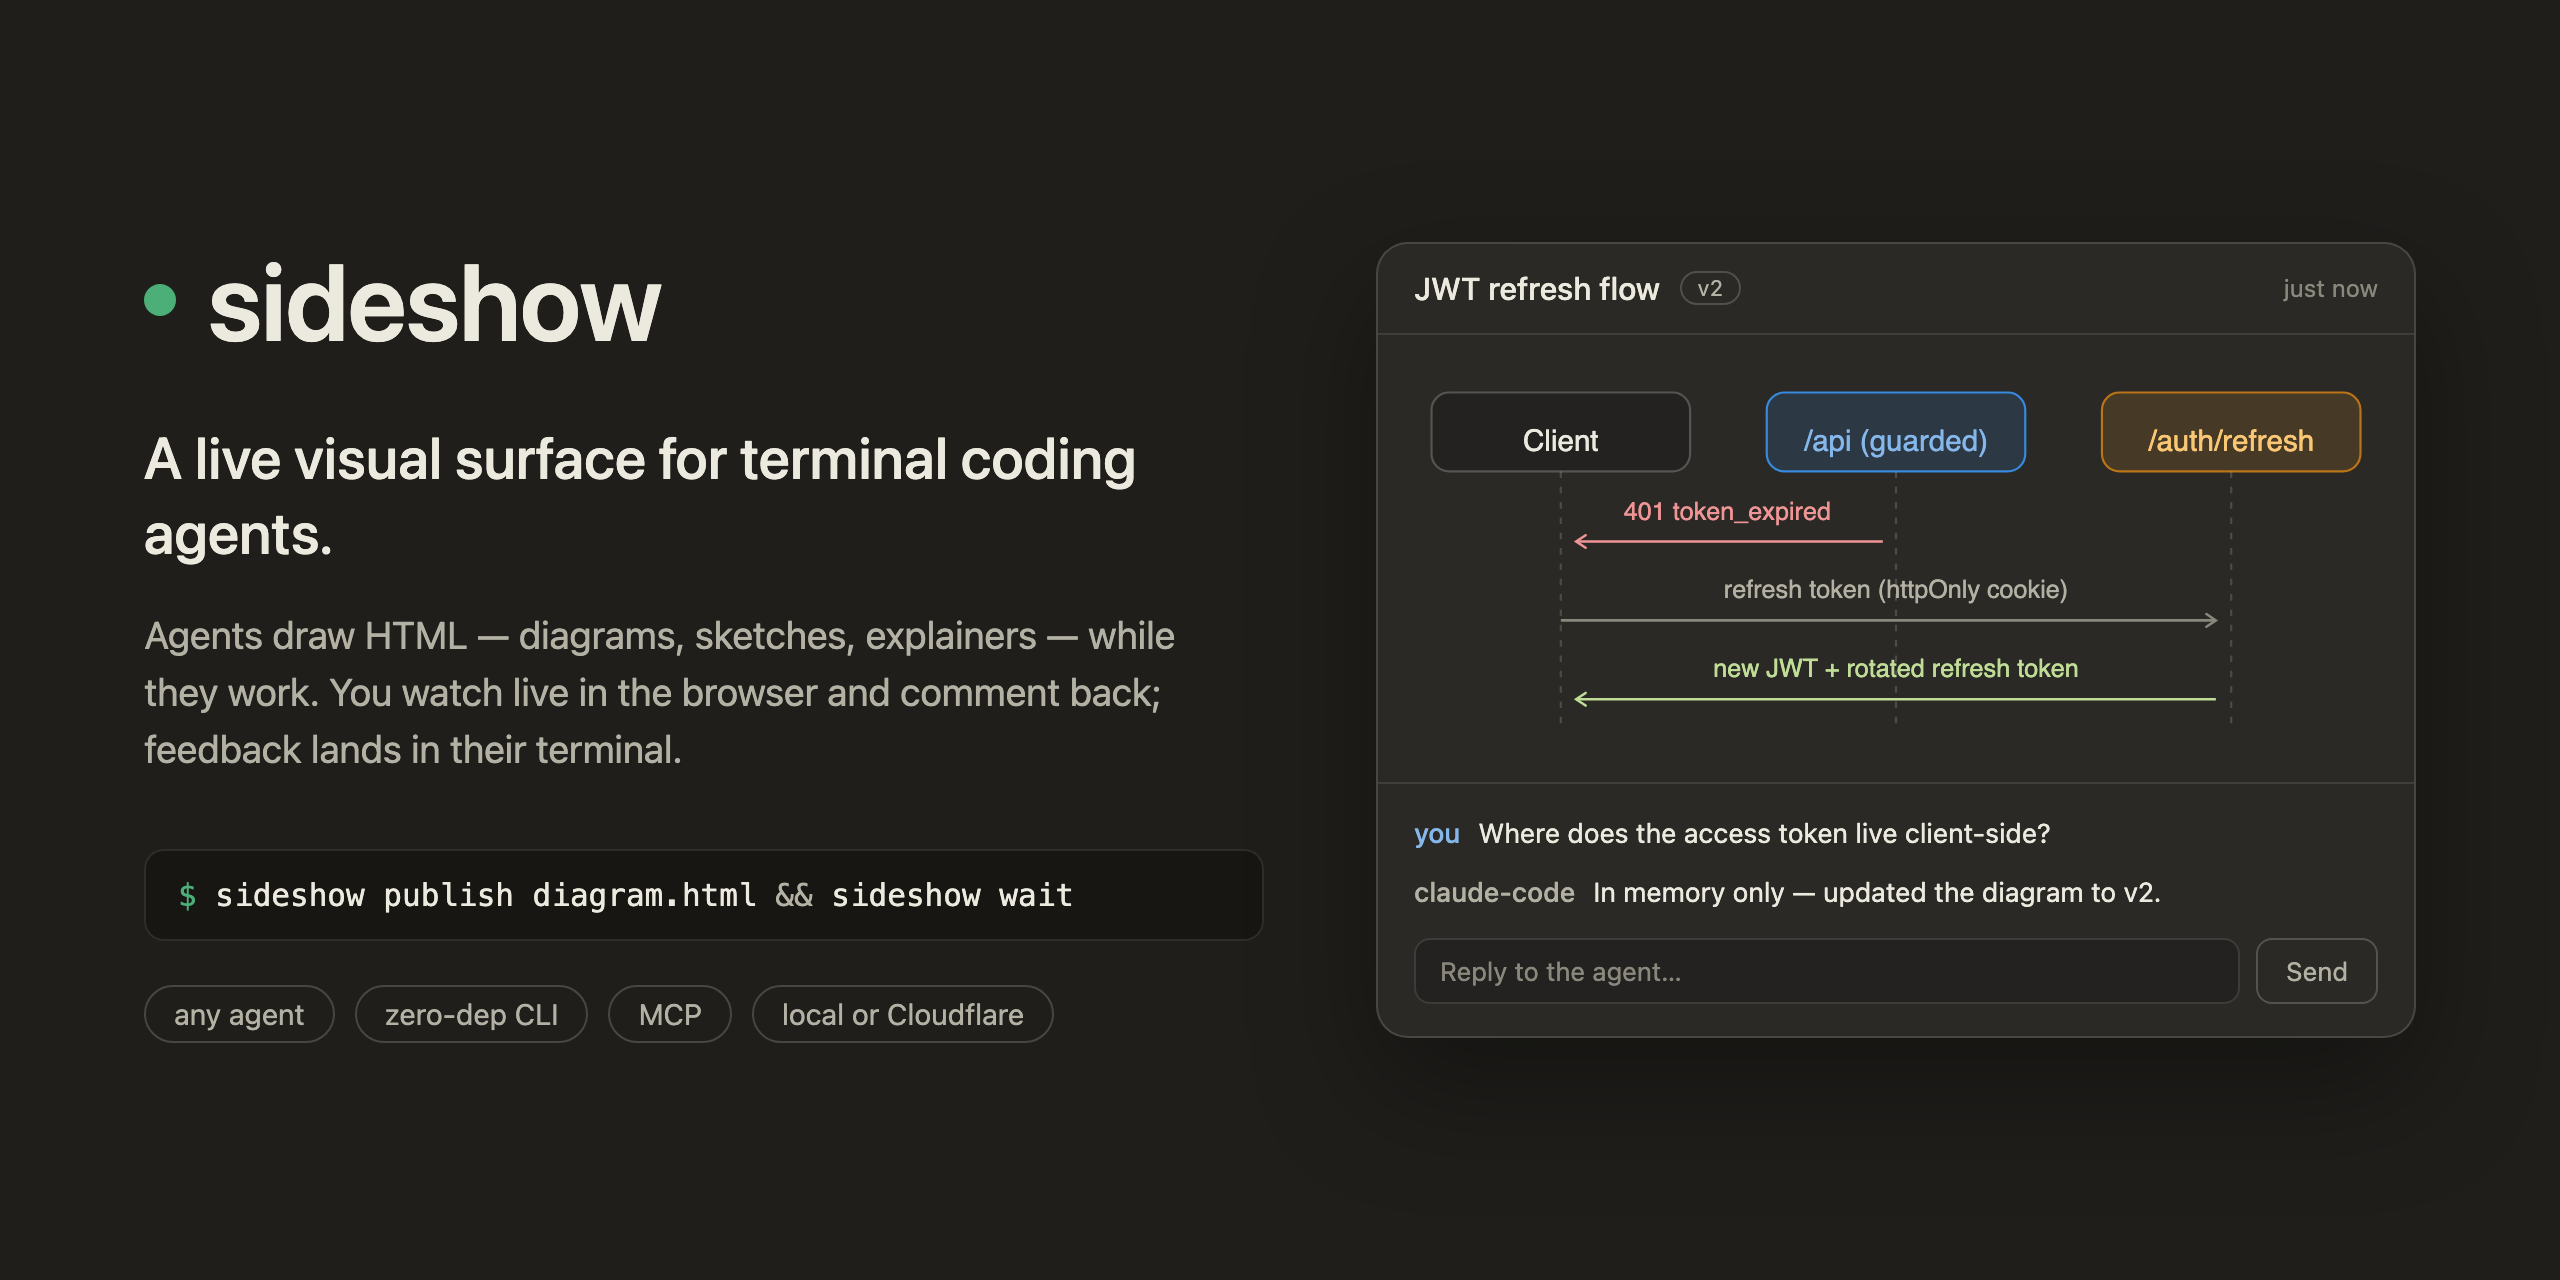
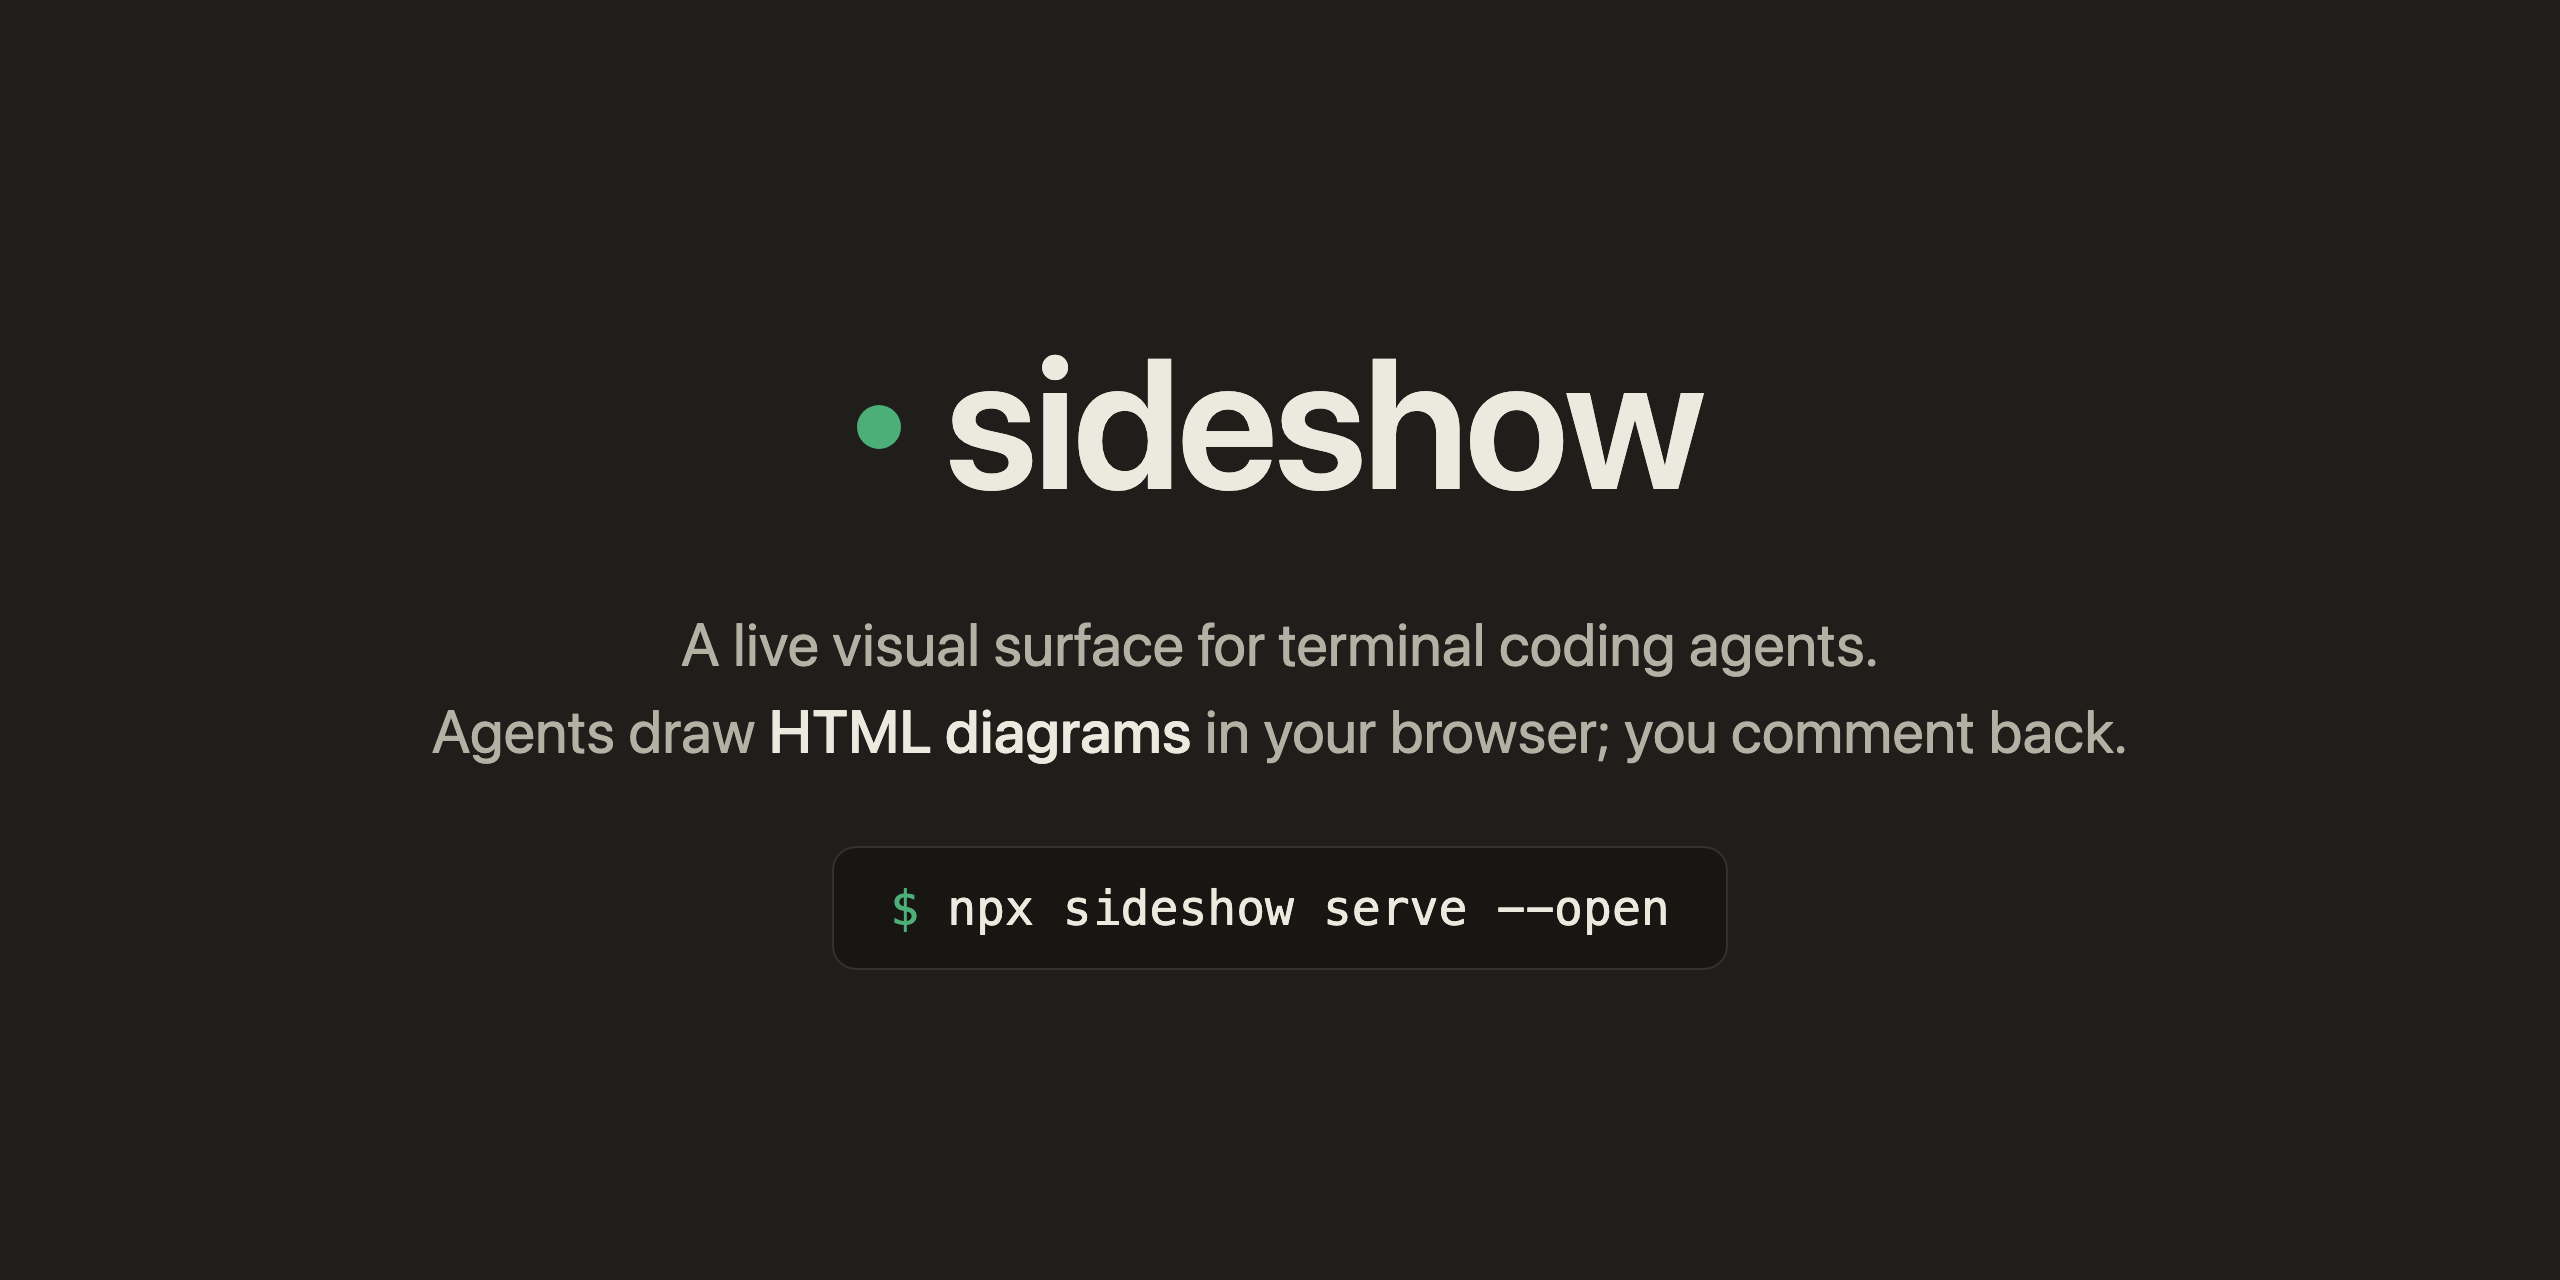
docs: simplify social card to title, tagline, install command

diff --git a/docs/social-card.html b/docs/social-card.html
@@ -18,365 +18,65 @@
         color: #eceadf;
         font-family: -apple-system, BlinkMacSystemFont, "Segoe UI", Roboto, sans-serif;
         display: flex;
+        flex-direction: column;
         align-items: center;
-        gap: 56px;
-        padding: 0 72px;
+        justify-content: center;
+        gap: 36px;
         zoom: 2;
-      }
-      .left {
-        width: 560px;
-        flex: none;
       }
       .brand {
         display: flex;
         align-items: center;
-        gap: 16px;
-        margin-bottom: 28px;
+        gap: 22px;
       }
       .dot {
-        width: 16px;
-        height: 16px;
+        width: 22px;
+        height: 22px;
         border-radius: 50%;
         background: #4caf78;
+        margin-top: 8px;
       }
-      .brand h1 {
-        font-size: 54px;
+      h1 {
+        font-size: 92px;
         font-weight: 600;
-        letter-spacing: -0.01em;
+        letter-spacing: -0.015em;
       }
       .tagline {
-        font-size: 29px;
-        line-height: 1.3;
-        font-weight: 500;
-        color: #eceadf;
-        margin-bottom: 18px;
-      }
-      .sub {
-        font-size: 19px;
-        line-height: 1.5;
+        font-size: 30px;
+        line-height: 1.45;
+        font-weight: 400;
         color: #b3b1a4;
-        margin-bottom: 36px;
-        max-width: 520px;
+        text-align: center;
+        max-width: 980px;
+      }
+      .tagline b {
+        color: #eceadf;
+        font-weight: 500;
       }
       .term {
         font-family: ui-monospace, SFMono-Regular, Menlo, monospace;
-        font-size: 15.5px;
-        color: #b3b1a4;
+        font-size: 24px;
+        color: #eceadf;
         background: #171613;
-        border: 1px solid rgba(255, 255, 250, 0.1);
-        border-radius: 10px;
-        padding: 13px 16px;
-        margin-bottom: 22px;
-        white-space: nowrap;
+        border: 1px solid rgba(255, 255, 250, 0.12);
+        border-radius: 12px;
+        padding: 16px 28px;
       }
       .term .p {
         color: #4caf78;
-      }
-      .term .cmd {
-        color: #eceadf;
-      }
-      .chips {
-        display: flex;
-        gap: 10px;
-      }
-      .chip {
-        font-size: 14.5px;
-        color: #b3b1a4;
-        border: 1px solid rgba(255, 255, 250, 0.18);
-        border-radius: 999px;
-        padding: 5px 14px;
-      }
-      .card {
-        flex: 1;
-        background: #2a2925;
-        border: 1px solid rgba(255, 255, 250, 0.14);
-        border-radius: 16px;
-        overflow: hidden;
-        box-shadow: 0 24px 60px rgba(0, 0, 0, 0.35);
-      }
-      .card-head {
-        display: flex;
-        align-items: center;
-        gap: 10px;
-        padding: 13px 18px;
-        border-bottom: 1px solid rgba(255, 255, 250, 0.1);
-      }
-      .card-title {
-        font-size: 15.5px;
-        font-weight: 500;
-      }
-      .pill {
-        font-size: 11px;
-        color: #b3b1a4;
-        border: 1px solid rgba(255, 255, 250, 0.18);
-        border-radius: 999px;
-        padding: 1px 8px;
-      }
-      .when {
-        font-size: 12px;
-        color: #8a887c;
-        margin-left: auto;
-      }
-      .card-body {
-        padding: 20px 18px 16px;
-      }
-      .thread {
-        border-top: 1px solid rgba(255, 255, 250, 0.1);
-        padding: 10px 18px 16px;
-      }
-      .cmt {
-        display: flex;
-        gap: 9px;
-        padding: 5px 0;
-        font-size: 13.5px;
-        line-height: 1.45;
-      }
-      .who {
-        flex: none;
-        font-weight: 500;
-        color: #b3b1a4;
-      }
-      .cmt.user .who {
-        color: #85b7eb;
-      }
-      .composer {
-        display: flex;
-        gap: 8px;
-        margin-top: 8px;
-      }
-      .input {
-        flex: 1;
-        font-size: 13px;
-        color: #8a887c;
-        background: #232220;
-        border: 1px solid rgba(255, 255, 250, 0.12);
-        border-radius: 8px;
-        padding: 8px 12px;
-      }
-      .send {
-        font-size: 13px;
-        color: #b3b1a4;
-        border: 1px solid rgba(255, 255, 250, 0.2);
-        border-radius: 8px;
-        padding: 8px 14px;
+        margin-right: 14px;
       }
     </style>
   </head>
   <body>
-    <div class="left">
-      <div class="brand">
-        <div class="dot"></div>
-        <h1>sideshow</h1>
-      </div>
-      <div class="tagline">A live visual surface for terminal coding agents.</div>
-      <div class="sub">
-        Agents draw HTML — diagrams, sketches, explainers — while they work. You watch live in the
-        browser and comment back; feedback lands in their terminal.
-      </div>
-      <div class="term">
-        <span class="p">$</span> <span class="cmd">sideshow publish diagram.html</span> &amp;&amp;
-        <span class="cmd">sideshow wait</span>
-      </div>
-      <div class="chips">
-        <span class="chip">any agent</span>
-        <span class="chip">zero-dep CLI</span>
-        <span class="chip">MCP</span>
-        <span class="chip">local or Cloudflare</span>
-      </div>
+    <div class="brand">
+      <div class="dot"></div>
+      <h1>sideshow</h1>
     </div>
-    <div class="card">
-      <div class="card-head">
-        <span class="card-title">JWT refresh flow</span>
-        <span class="pill">v2</span>
-        <span class="when">just now</span>
-      </div>
-      <div class="card-body">
-        <svg width="100%" viewBox="0 0 440 168" xmlns="http://www.w3.org/2000/svg">
-          <defs>
-            <marker
-              id="a"
-              viewBox="0 0 10 10"
-              refX="8"
-              refY="5"
-              markerWidth="6"
-              markerHeight="6"
-              orient="auto-start-reverse"
-            >
-              <path
-                d="M2 1L8 5L2 9"
-                fill="none"
-                stroke="context-stroke"
-                stroke-width="1.6"
-                stroke-linecap="round"
-              />
-            </marker>
-          </defs>
-          <rect
-            x="8"
-            y="8"
-            width="118"
-            height="36"
-            rx="8"
-            fill="#232220"
-            stroke="rgba(255,255,250,0.22)"
-            stroke-width="1"
-          />
-          <text
-            x="67"
-            y="30"
-            text-anchor="middle"
-            dominant-baseline="central"
-            fill="#eceadf"
-            font-size="13.5"
-            font-weight="500"
-            font-family="-apple-system, sans-serif"
-          >
-            Client
-          </text>
-          <rect
-            x="161"
-            y="8"
-            width="118"
-            height="36"
-            rx="8"
-            fill="rgba(55,138,221,0.16)"
-            stroke="#378add"
-            stroke-width="1"
-          />
-          <text
-            x="220"
-            y="30"
-            text-anchor="middle"
-            dominant-baseline="central"
-            fill="#85b7eb"
-            font-size="13.5"
-            font-weight="500"
-            font-family="-apple-system, sans-serif"
-          >
-            /api (guarded)
-          </text>
-          <rect
-            x="314"
-            y="8"
-            width="118"
-            height="36"
-            rx="8"
-            fill="rgba(239,159,39,0.14)"
-            stroke="#ba7517"
-            stroke-width="1"
-          />
-          <text
-            x="373"
-            y="30"
-            text-anchor="middle"
-            dominant-baseline="central"
-            fill="#fac775"
-            font-size="13.5"
-            font-weight="500"
-            font-family="-apple-system, sans-serif"
-          >
-            /auth/refresh
-          </text>
-          <line
-            x1="67"
-            y1="44"
-            x2="67"
-            y2="160"
-            stroke="rgba(255,255,250,0.16)"
-            stroke-width="1"
-            stroke-dasharray="3 4"
-          />
-          <line
-            x1="220"
-            y1="44"
-            x2="220"
-            y2="160"
-            stroke="rgba(255,255,250,0.16)"
-            stroke-width="1"
-            stroke-dasharray="3 4"
-          />
-          <line
-            x1="373"
-            y1="44"
-            x2="373"
-            y2="160"
-            stroke="rgba(255,255,250,0.16)"
-            stroke-width="1"
-            stroke-dasharray="3 4"
-          />
-          <text
-            x="143"
-            y="66"
-            text-anchor="middle"
-            fill="#f09595"
-            font-size="11.5"
-            font-family="-apple-system, sans-serif"
-          >
-            401 token_expired
-          </text>
-          <line
-            x1="214"
-            y1="76"
-            x2="74"
-            y2="76"
-            stroke="#f09595"
-            stroke-width="1.2"
-            marker-end="url(#a)"
-          />
-          <text
-            x="220"
-            y="102"
-            text-anchor="middle"
-            fill="#b3b1a4"
-            font-size="11.5"
-            font-family="-apple-system, sans-serif"
-          >
-            refresh token (httpOnly cookie)
-          </text>
-          <line
-            x1="67"
-            y1="112"
-            x2="366"
-            y2="112"
-            stroke="#8a887c"
-            stroke-width="1.2"
-            marker-end="url(#a)"
-          />
-          <text
-            x="220"
-            y="138"
-            text-anchor="middle"
-            fill="#c0dd97"
-            font-size="11.5"
-            font-family="-apple-system, sans-serif"
-          >
-            new JWT + rotated refresh token
-          </text>
-          <line
-            x1="366"
-            y1="148"
-            x2="74"
-            y2="148"
-            stroke="#c0dd97"
-            stroke-width="1.2"
-            marker-end="url(#a)"
-          />
-        </svg>
-      </div>
-      <div class="thread">
-        <div class="cmt user">
-          <span class="who">you</span>
-          <span>Where does the access token live client-side?</span>
-        </div>
-        <div class="cmt">
-          <span class="who">claude-code</span>
-          <span>In memory only — updated the diagram to v2.</span>
-        </div>
-        <div class="composer">
-          <div class="input">Reply to the agent…</div>
-          <div class="send">Send</div>
-        </div>
-      </div>
+    <div class="tagline">
+      A live visual surface for terminal coding agents.<br />
+      Agents draw <b>HTML diagrams</b> in your browser; you comment back.
     </div>
+    <div class="term"><span class="p">$</span>npx sideshow serve --open</div>
   </body>
 </html>
